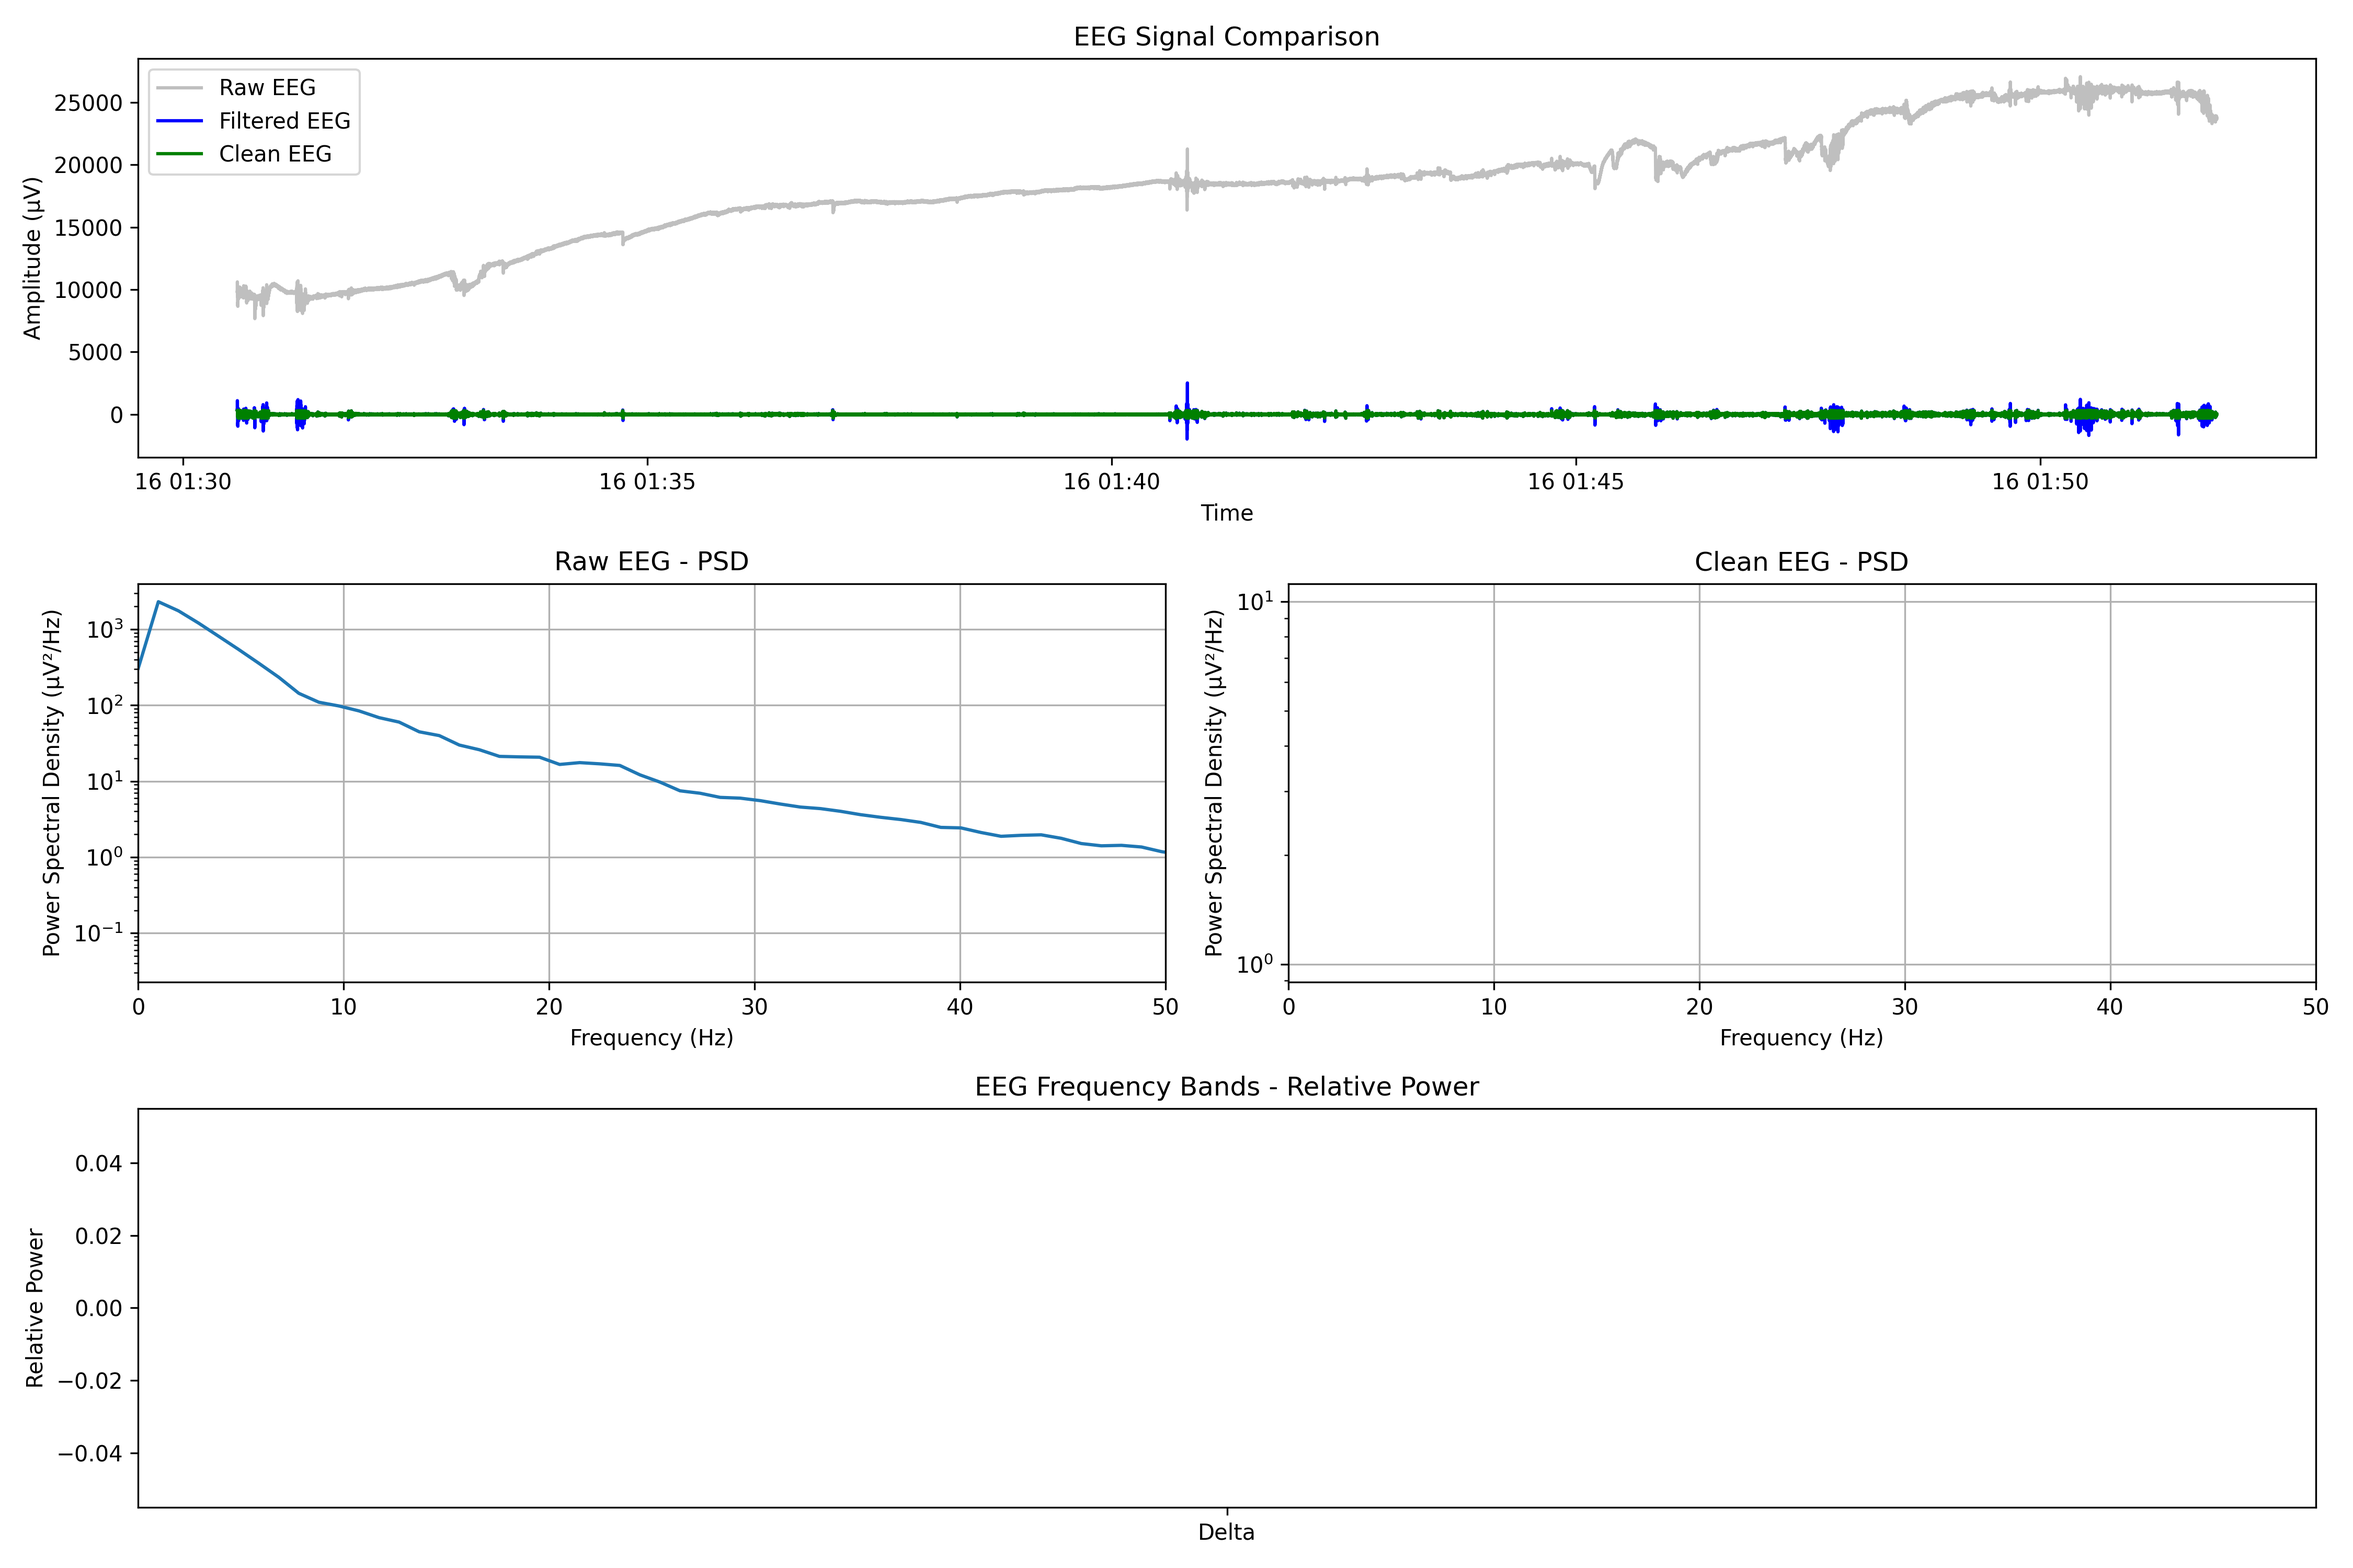
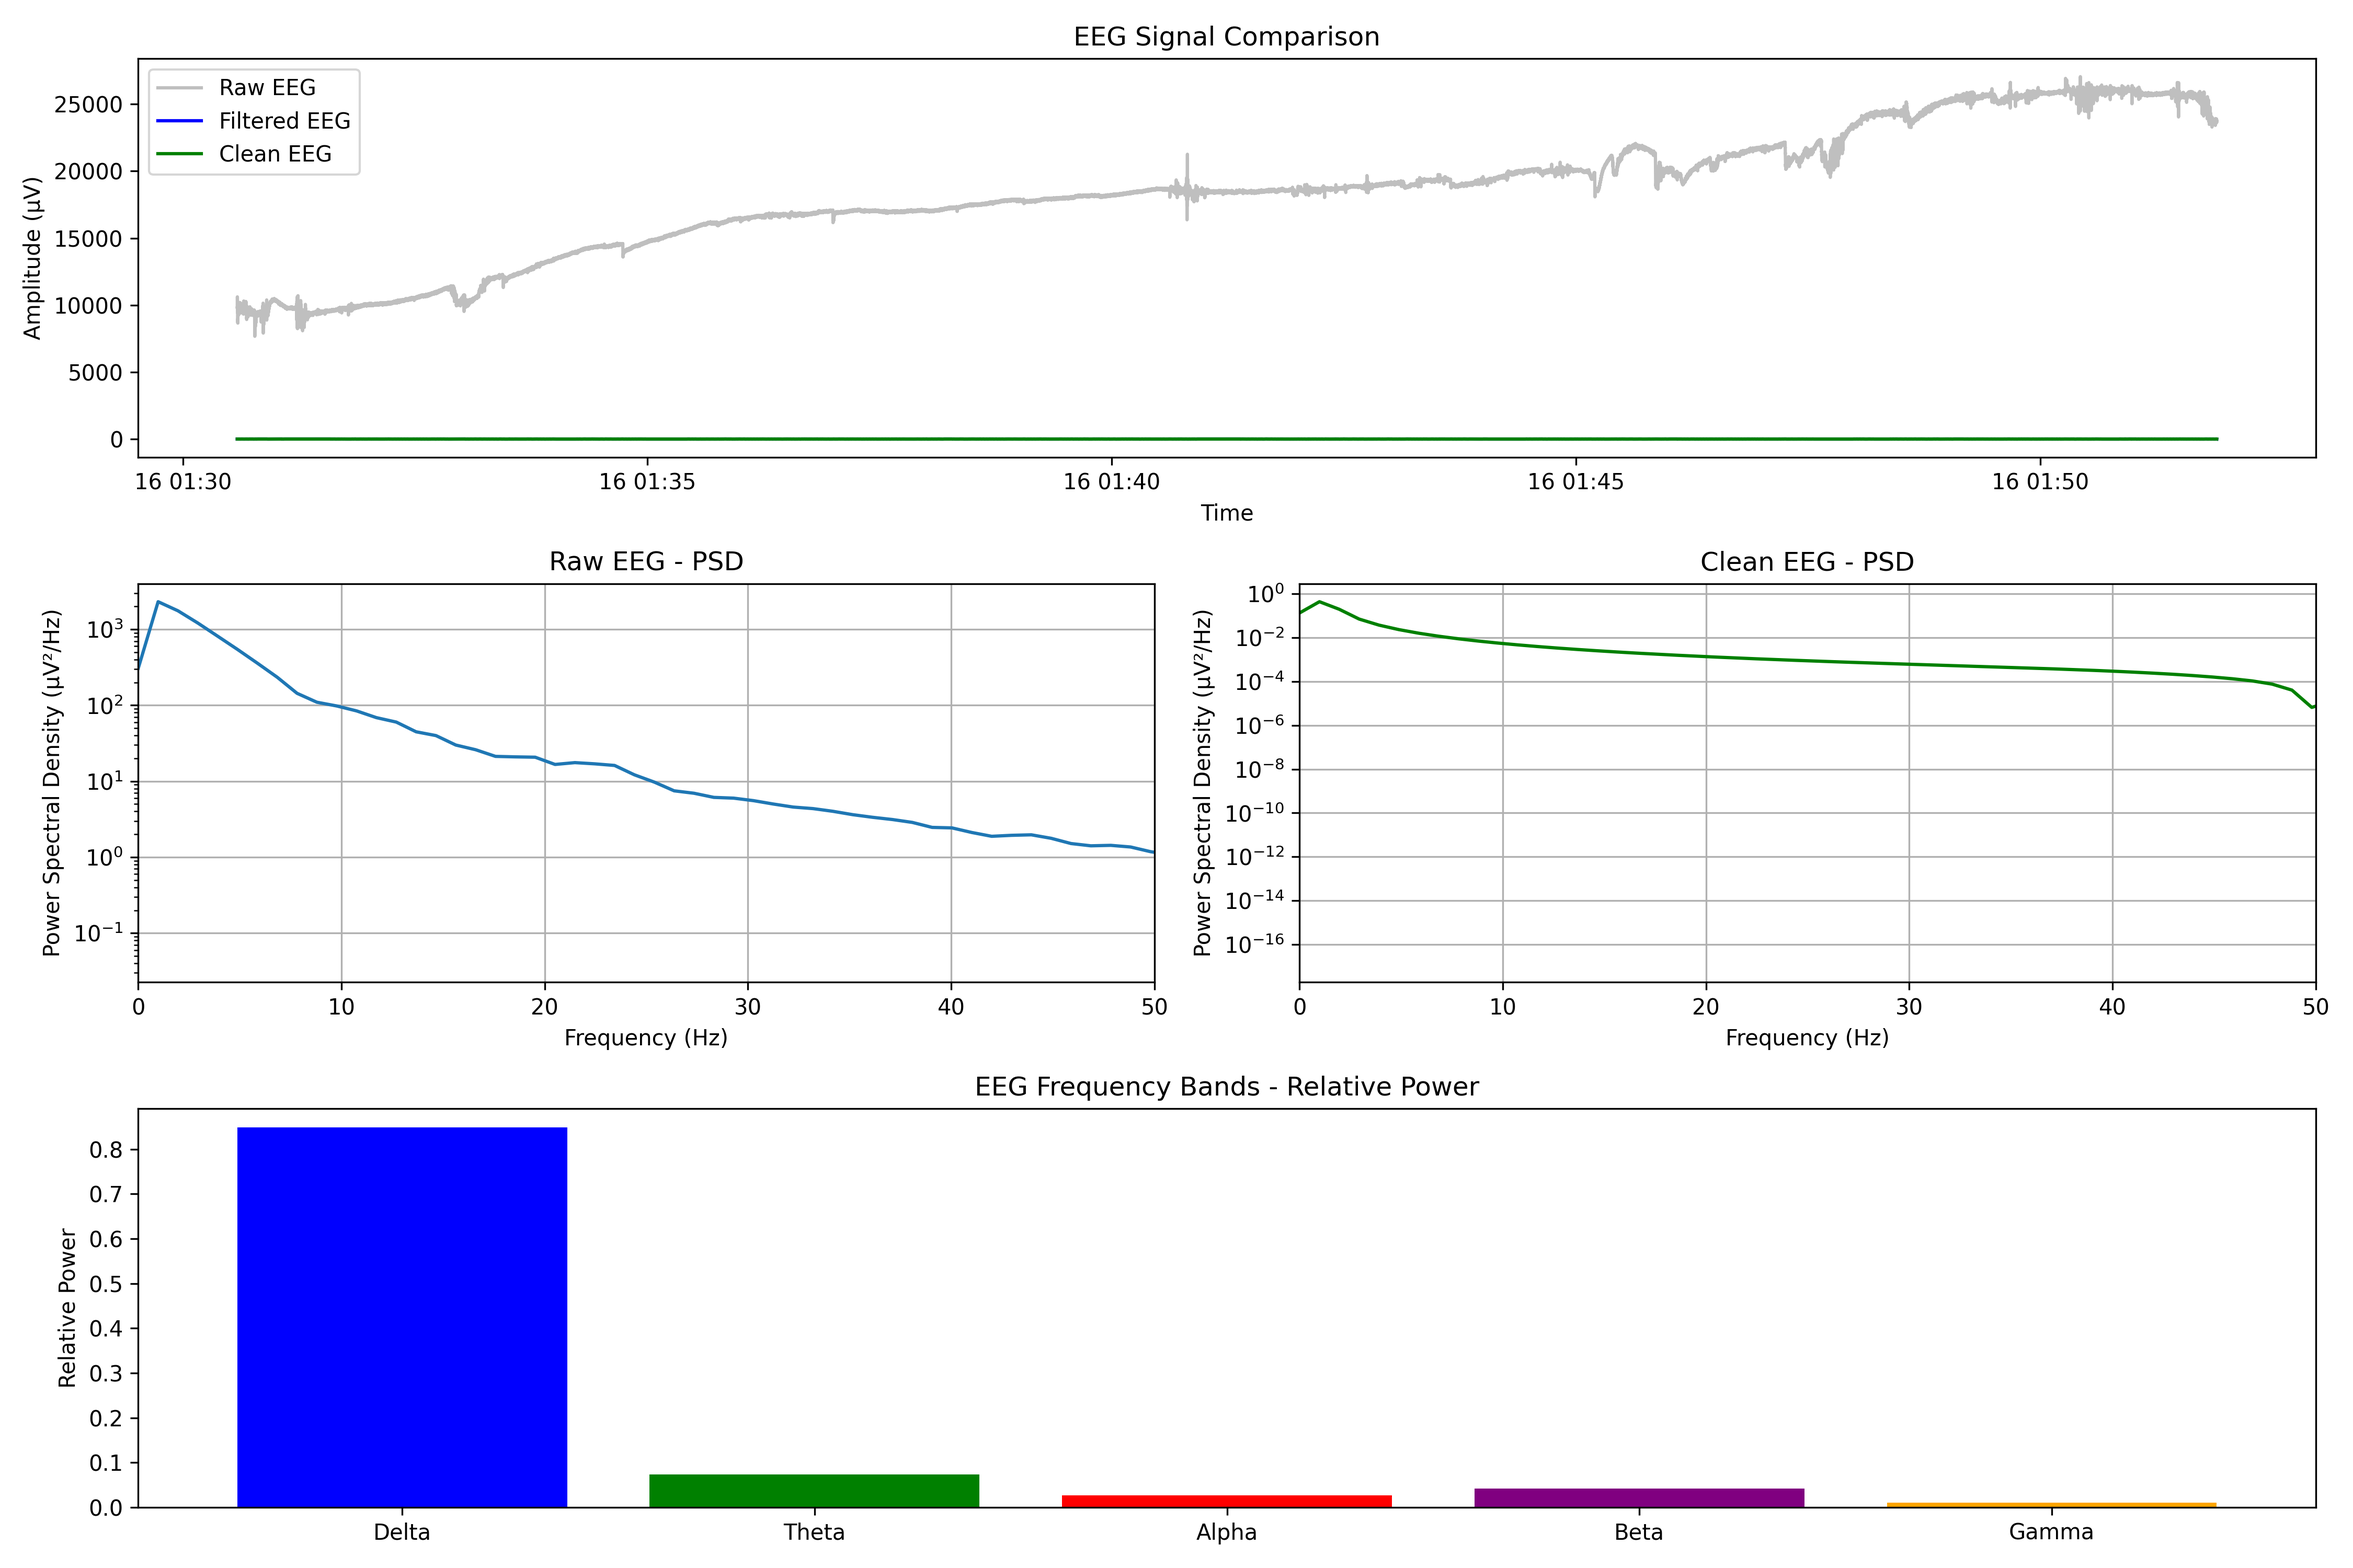
Fixed code
sometimes there would be lost values due to ping so i fixed this issue in this commit

diff --git a/AnalysisAlgorithm.py b/AnalysisAlgorithm.py
@@ -17,23 +17,28 @@ def load_and_preprocess_eeg(file_path, fs=250):
         # Load the data
         df = pd.read_csv(file_path, delimiter="\t")
         
-        # format of the csv file
-        # 0.000000	17822.565773	11587.211381	-20902.747918	-2519.958022	7217.467692	17739.461987	22439.877384	1357.332034	0.002000	0.080000	0.482000	192.000000	0.000000	16.000000	2.000000	128.000000	15.000000	16.000000	0.000000	0.000000	0.000000	1740096180.794478	0.000000
-        # sample_num, channel[1..11], channel[1..10], timestamp, 0
+        # Identify the EEG data column (potentially the first numeric column)
+        numeric_columns = df.select_dtypes(include=[np.number]).columns
+        
+        # If no specific column is specified, use the first numeric column
+        eeg_col = numeric_columns[0]
+        print(f"Using column '{eeg_col}' as EEG data")
         
         # Extract timestamp and convert to datetime
         timestamp_col = df.columns[-2]
         df["Timestamp"] = pd.to_datetime(df[timestamp_col], unit="s")
         
         # Handle missing values
-        df.dropna(inplace=True)
+        df.dropna(subset=[eeg_col], inplace=True)
         
-        # Extract channel data (assuming first data column is EEG)
-        eeg_col = df.columns[1]
-        print(f"Using column '{eeg_col}' as EEG data")
+        # Convert to numeric and handle potential parsing errors
+        df[eeg_col] = pd.to_numeric(df[eeg_col], errors='coerce')
+        
+        # Normalize the signal (optional, but can help with scaling)
+        df["Normalized_EEG"] = (df[eeg_col] - df[eeg_col].mean()) / df[eeg_col].std()
         
         # Detrend the data
-        df["Detrended_EEG"] = signal_detrend(df[eeg_col])
+        df["Detrended_EEG"] = signal_detrend(df["Normalized_EEG"])
         
         # Apply filters
         df["Filtered_EEG"] = apply_all_filters(df["Detrended_EEG"], fs)
@@ -80,10 +85,10 @@ def remove_artifacts(data, threshold=3.5):
     # Z-score based thresholding
     z_scores = (data - data.mean()) / data.std()
     clean_data = data.copy()
-    clean_data[abs(z_scores) > threshold] = np.nan
     
-    # Interpolate missing values
-    clean_data = clean_data.interpolate(method='linear')
+    # Replace extreme values with median instead of NaN
+    median = np.median(data)
+    clean_data[abs(z_scores) > threshold] = median
     
     return clean_data
 
@@ -119,7 +124,7 @@ def compute_band_powers(data, fs):
     total_power = sum(abs_band_powers.values())
     
     # Calculate relative band powers
-    rel_band_powers = {band: power/total_power for band, power in abs_band_powers.items()}
+    rel_band_powers = {band: max(0, power/total_power) for band, power in abs_band_powers.items()}
     
     return abs_band_powers, rel_band_powers
 
